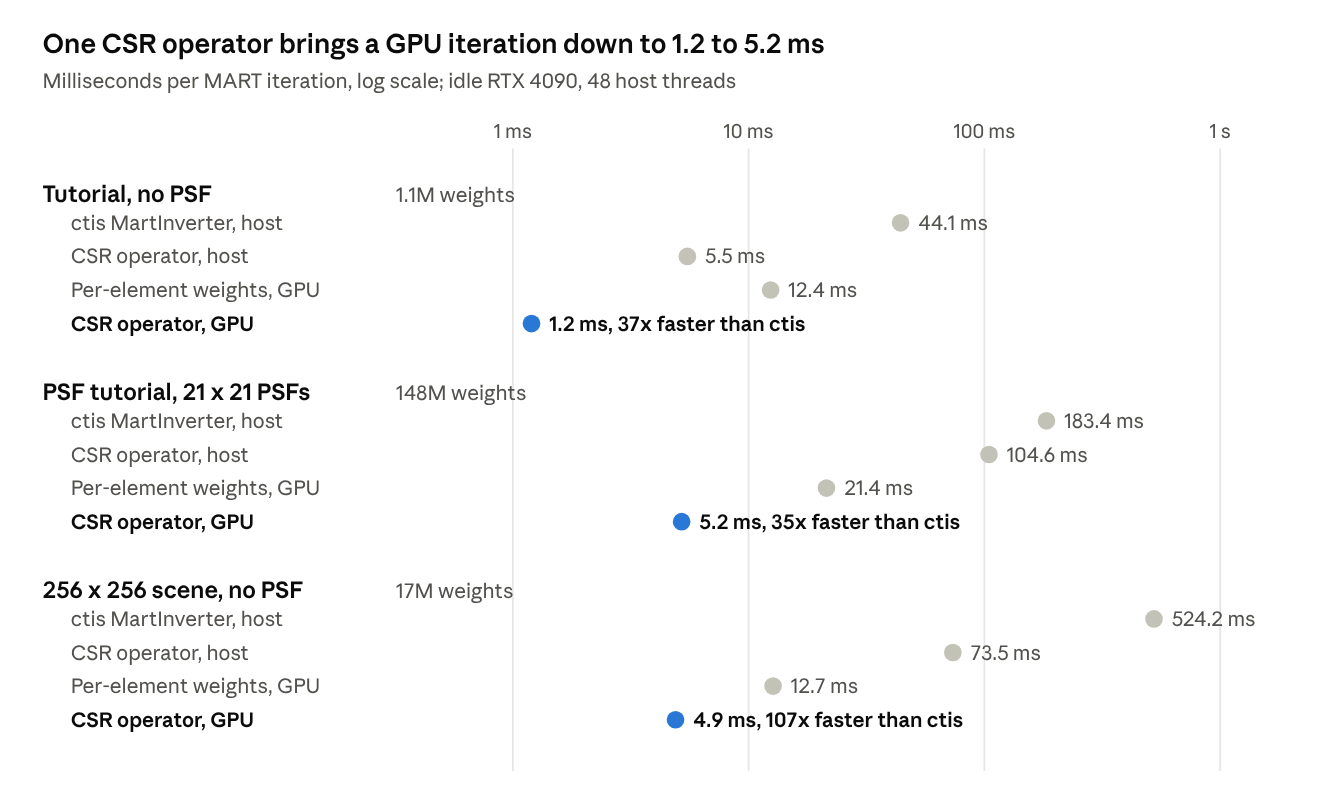
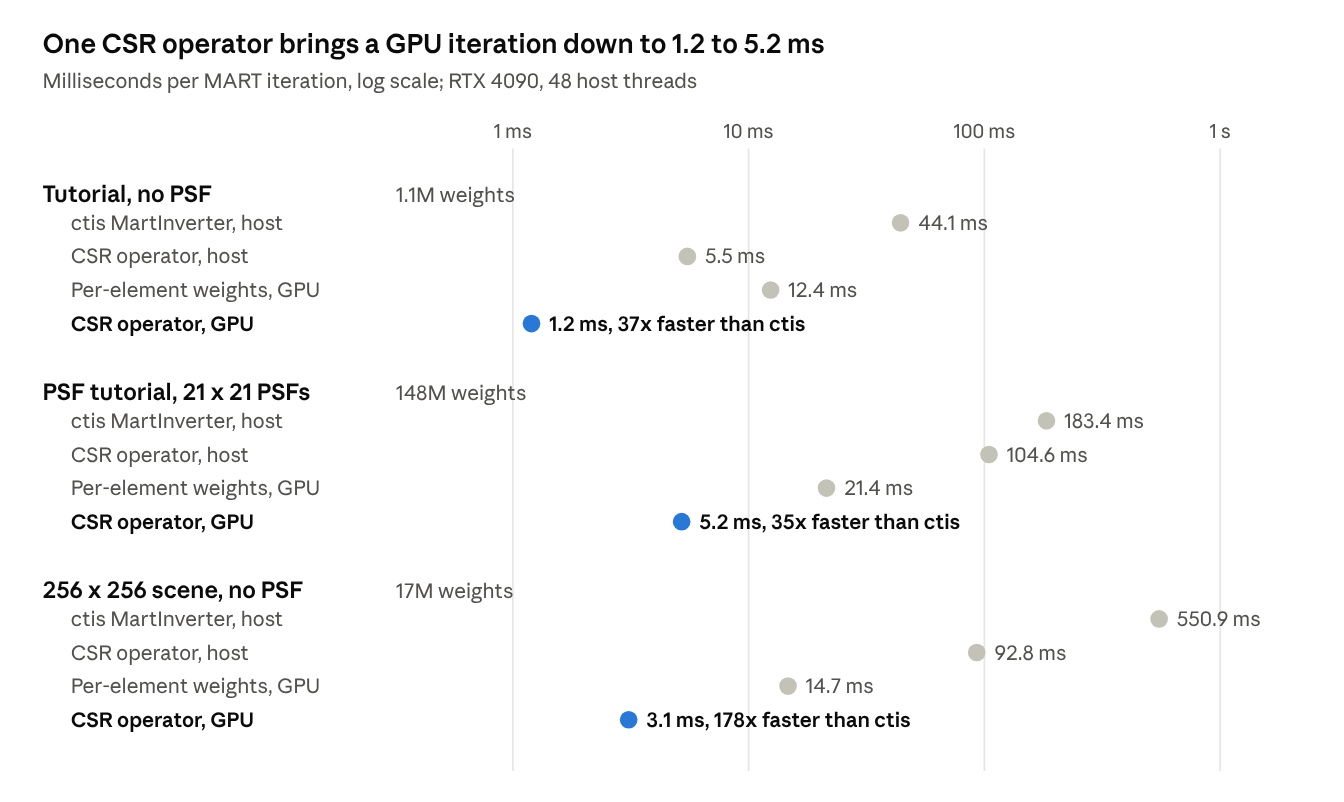
Note the resized GPU kernel and torch's nondeterminism in the roadmap.
The Regridder's kernel now sizes its thread groups to the rows, which halves
a 256 by 256 MART iteration, so the figure and its numbers take the new run.
torch's sparse product turned out not to repeat exactly on long rows, even in
deterministic mode, which corrects the status table and adds a lesson.

Claude-Session: https://claude.ai/code/session_01GqceVSp8s2msxj1Dr9MrGU

diff --git a/docs/roadmap/cuda-mart.rst b/docs/roadmap/cuda-mart.rst
@@ -1,7 +1,7 @@
 CUDA MART Roadmap
 =================
 
-*As of 2026-10-06.*
+*As of 2026-10-08.*
 
 Every numerical piece of a CUDA implementation of MART now exists,
 and a prototype ``regridding.Regridder`` joins most of them:
@@ -54,7 +54,8 @@ Where things stand
     * - :mod:`torch` ``Regridder``
       - ctis ``feature/parametric-inverter``, ``feature/elastic-net-inverter``
       - Unmerged
-      - Weights as one CSR matrix with an explicit transpose, deterministic on CUDA;
+      - Weights as one CSR matrix with an explicit transpose;
+        its CUDA product is that of :mod:`torch`, which does not repeat exactly on long rows;
         the regridding prototype generalizes it
     * - Level-4 GPU MART scripts
       - esis ``wip/level4-tempest-tooling``
@@ -71,8 +72,8 @@ Where things stand
 What we learned
 ---------------
 
-One CSR operator makes a MART iteration on the GPU 35 to 107 times faster than ctis,
-and 2.6 to 10 times faster than the per-element GPU path,
+One CSR operator makes a MART iteration on the GPU 35 to 178 times faster than ctis,
+and 4.1 to 10 times faster than the per-element GPU path,
 by replacing 160 kernel launches with two.
 On the host alone it is 1.8 to 8 times faster than ctis.
 
@@ -80,8 +81,11 @@ On the host alone it is 1.8 to 8 times faster than ctis.
     :width: 100%
     :alt: Milliseconds per MART iteration for three problems and four implementations, on a log scale.
 
-    Milliseconds per MART iteration on an idle RTX 4090 and 48 host threads,
+    Milliseconds per MART iteration on an RTX 4090 and 48 host threads,
     for the tutorial, the PSF tutorial with 21 by 21 PSFs, and a 256 by 256 scene.
+    The first two were run on 2026-10-06 with the GPU 1 to 4% busy;
+    the 256 by 256 scene on 2026-10-08, over 50 fixed iterations,
+    with the resized thread groups of the GPU kernel and the GPU 10 to 17% busy.
     Every implementation matched ctis to 1e-10 or better.
 
 - **Launches dominate the GPU.**
@@ -96,13 +100,16 @@ On the host alone it is 1.8 to 8 times faster than ctis.
   against 6.3 for the per-element path.
   Building the backprojection straight from the weights would remove
   one of its three assemblies and the transpose.
-- **Short rows waste the GPU kernel.**
-  It gives each row a 32-thread warp,
-  but the rows of the backprojection hold about 3 entries each.
-  That is why the sparse product of :mod:`torch` (cuSPARSE) beats it on the 256 by 256 scene,
-  2.0 ms against 4.9.
-  The backprojection rows of ESIS average 3.5 entries,
-  so the kernel needs fewer threads per short row before M5.
+- **Short rows needed fewer threads.**
+  The kernel gave every row a 32-thread warp,
+  but the rows of a backprojection hold about 3 entries each.
+  It now gives each row as many threads as an average row has entries, up to a warp:
+  2 for a backprojection, that of ESIS included, and 32 for a forward operator.
+  At 256 by 256, the backprojection product went from 3.5 ms to under 0.5,
+  against 0.6 to 0.7 for the sparse product of :mod:`torch` (cuSPARSE).
+  A MART iteration went from 7.3 ms to 3.4, against 2.7 for :mod:`torch`;
+  the gap left is about 0.2 ms of host time per product,
+  which only small problems notice.
 - **Assembly is cheap once parallel.**
   At 145M weights, assembling takes about 0.5 s on the GPU and on 48 host threads alike,
   and the transpose another 0.5 s.
@@ -124,6 +131,14 @@ On the host alone it is 1.8 to 8 times faster than ctis.
   The device scatter adds in no fixed order,
   and the ratios of MART amplified that to 1e-10 where both sides are near zero.
   CSR gives identical results every run.
+- **The sparse product of** :mod:`torch` **does not repeat exactly either.**
+  On rows of 4,500 entries, all 100 repeated products differed,
+  by 1 to 4 ulp in about half the values,
+  even under ``torch.use_deterministic_algorithms(True)``.
+  Short rows repeat, but the result for a column changes with the batch width.
+  The kernel of the regridding ``Regridder`` repeats exactly in every case.
+  The docstring of the :mod:`torch` ``Regridder`` in ctis calls its product
+  bitwise deterministic on CUDA, which is wrong for long rows.
 - **Precision and memory trade off.**
   Tempest stored values as float32 and indices as int32
   to fit the production grid on one 80 GB GPU.
